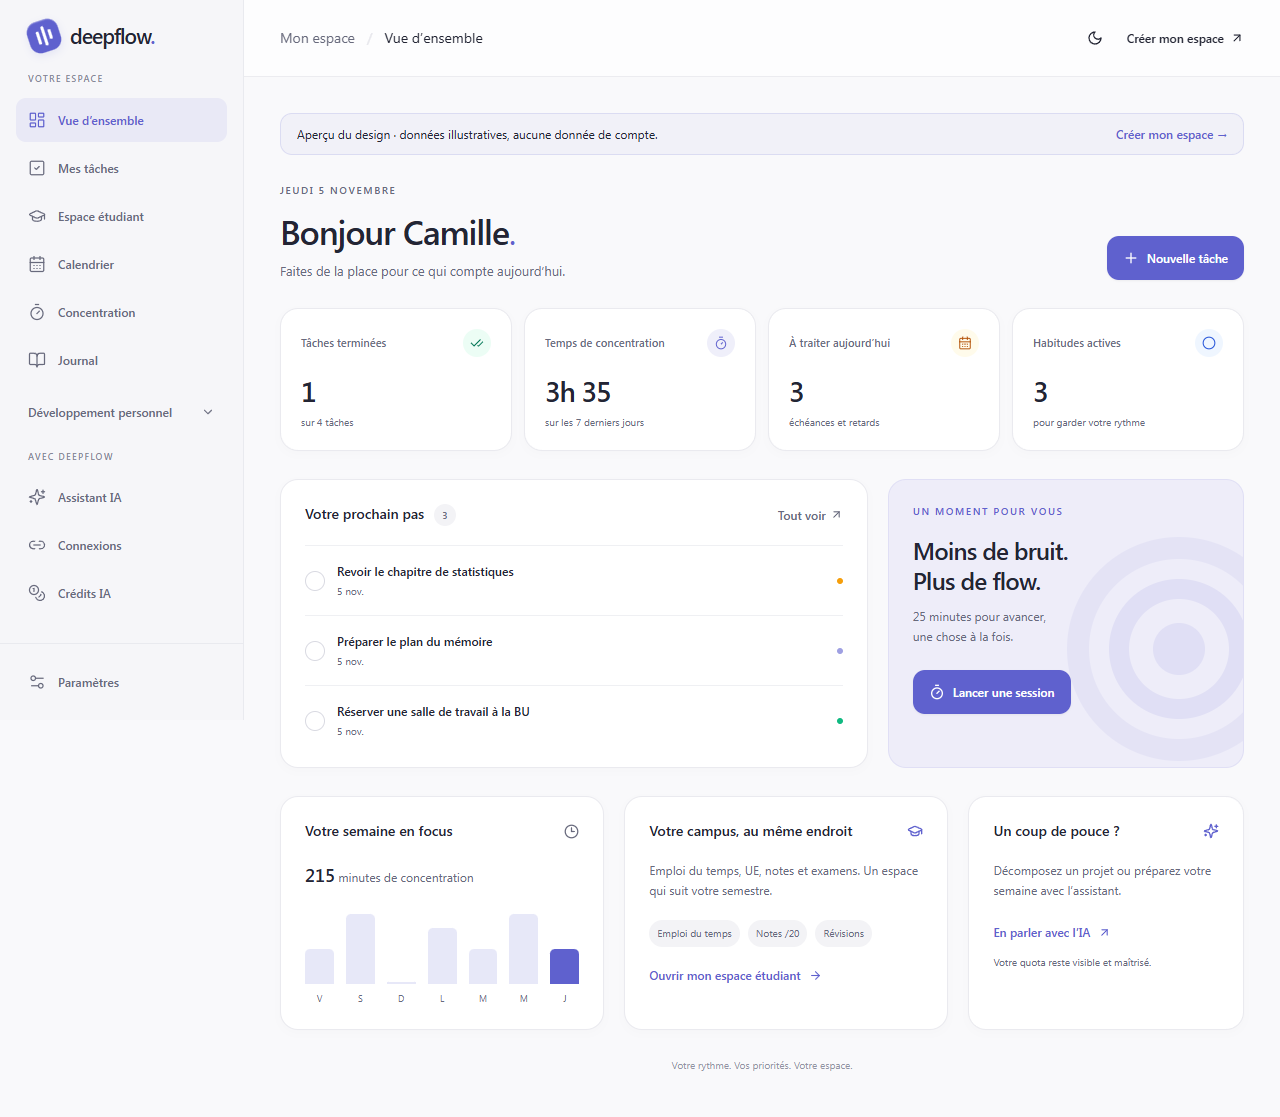
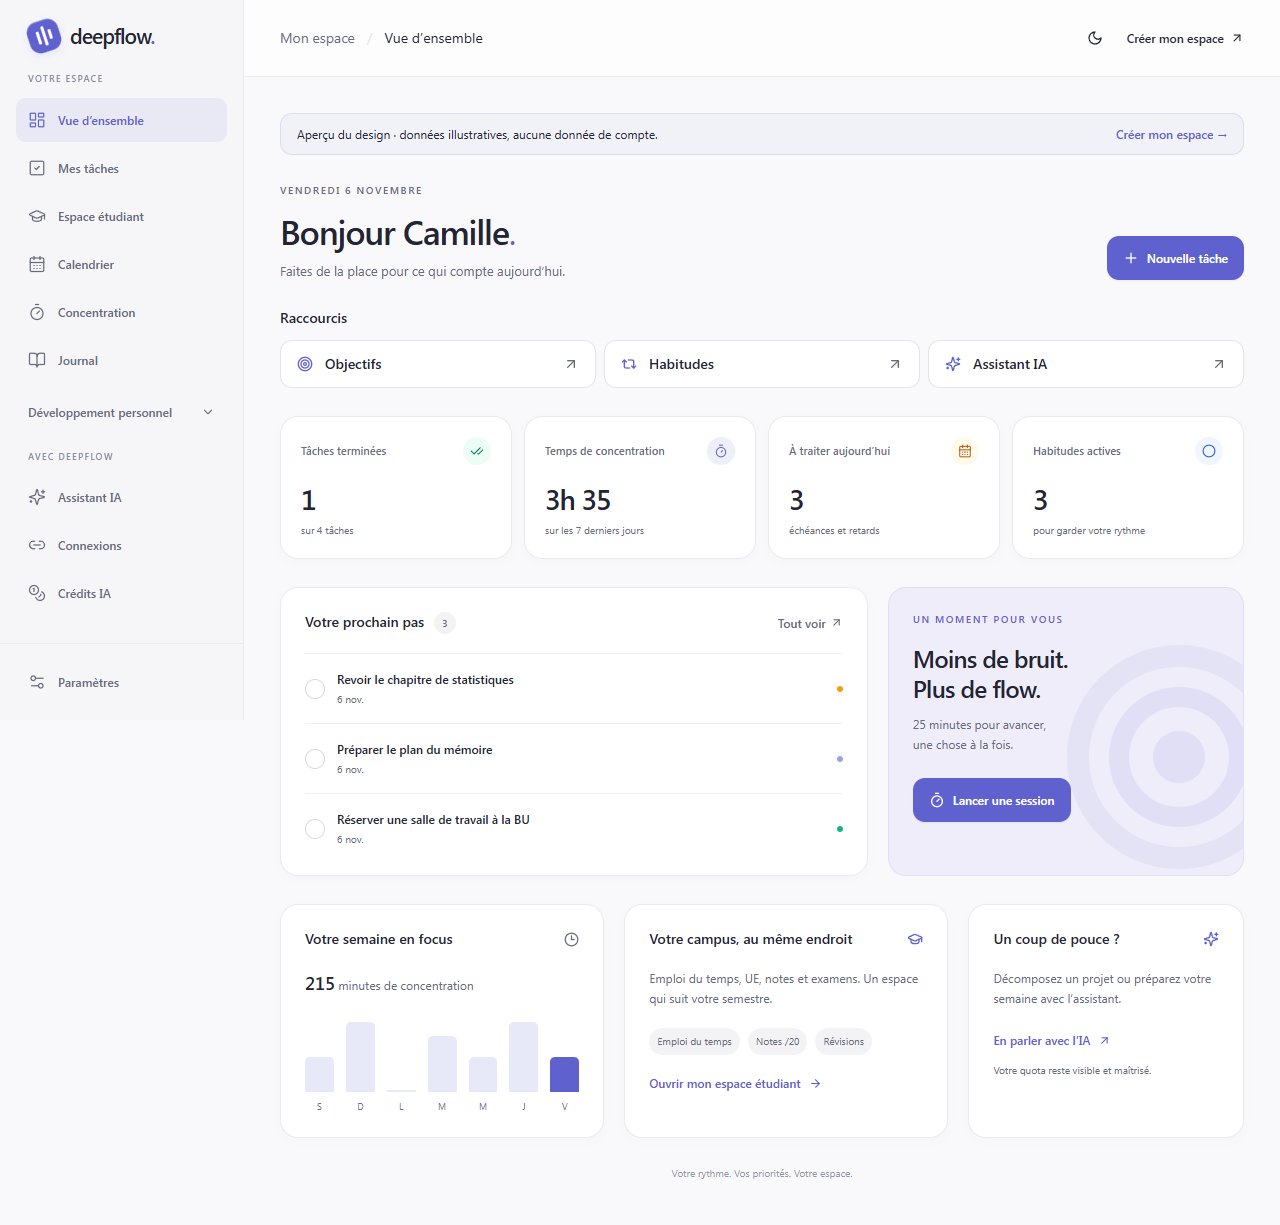
Ajoute les raccourcis et clarifie les integrations

diff --git a/src/pages/Dashboard.tsx b/src/pages/Dashboard.tsx
@@ -10,13 +10,16 @@ import {
   Clock3,
   GraduationCap,
   Plus,
+  Repeat2,
   Sparkles,
+  Target,
   Timer,
 } from "lucide-react";
 import { useAuth } from "@/hooks/useAuth";
 import { supabase } from "@/integrations/supabase/client";
 import { Button } from "@/components/ui/button";
-import { parisDateKey } from "@/lib/task-planning";
+import { parisDateKey, planTasks, taskDateKey } from "@/lib/task-planning";
+import { readAllPages } from "@/lib/pagination";
 
 export interface OverviewTask {
   id: string;
@@ -39,10 +42,50 @@ export const emptyOverview: OverviewData = {
 };
 const dateLabel = (date: Date) =>
   new Intl.DateTimeFormat("fr-FR", {
+    timeZone: "Europe/Paris",
     weekday: "long",
     day: "numeric",
     month: "long",
   }).format(date);
+
+function OverviewShortcuts() {
+  const shortcuts = [
+    { to: "/goals", label: "Objectifs", icon: Target },
+    { to: "/habits", label: "Habitudes", icon: Repeat2 },
+    { to: "/ai-assistant", label: "Assistant IA", icon: Sparkles },
+  ];
+  return (
+    <nav aria-labelledby="overview-shortcuts">
+      <h2 id="overview-shortcuts" className="mb-3 text-sm font-semibold">
+        Raccourcis
+      </h2>
+      <div className="grid grid-cols-1 gap-2 sm:grid-cols-3">
+        {shortcuts.map(({ to, label, icon: Icon }) => (
+          <Button
+            key={to}
+            asChild
+            variant="outline"
+            className="h-12 justify-start gap-3 bg-card px-4"
+          >
+            <Link to={to}>
+              <Icon
+                size={17}
+                className="shrink-0 text-primary"
+                aria-hidden="true"
+              />
+              {label}
+              <ArrowUpRight
+                size={14}
+                className="ml-auto text-muted-foreground"
+                aria-hidden="true"
+              />
+            </Link>
+          </Button>
+        ))}
+      </div>
+    </nav>
+  );
+}
 export function DashboardView({
   data,
   name,
@@ -55,15 +98,17 @@ export function DashboardView({
   onToggle?: (task: OverviewTask) => void;
 }) {
   const today = parisDateKey(new Date());
-  const pending = data.tasks.filter((task) => !task.completed);
+  const pending = planTasks(data.tasks, {
+    status: "pending",
+    search: "",
+    sort: "due",
+  });
   const completed = data.tasks.length - pending.length;
-  const urgent = pending.filter(
-    (task) => task.due_date && task.due_date.slice(0, 10) <= today,
-  );
-  const visible = [
-    ...urgent,
-    ...pending.filter((task) => !urgent.includes(task)),
-  ].slice(0, 4);
+  const urgent = pending.filter((task) => {
+    const due = taskDateKey(task.due_date);
+    return due !== null && due <= today;
+  });
+  const visible = pending.slice(0, 4);
   const days = Array.from({ length: 7 }, (_, index) => {
     const date = new Date();
     date.setDate(date.getDate() - 6 + index);
@@ -95,12 +140,13 @@ export function DashboardView({
           </p>
         </div>
         <Button asChild className="gap-2 rounded-xl text-xs shadow-sm">
-          <Link to={mainLink}>
+          <Link to={preview ? mainLink : "/tasks?new=1"}>
             <Plus size={15} />
             Nouvelle tâche
           </Link>
         </Button>
       </div>
+      <OverviewShortcuts />
       <section
         aria-label="Vos indicateurs"
         className="grid grid-cols-2 gap-3 lg:grid-cols-4"
@@ -362,11 +408,14 @@ export default function Dashboard() {
       since.setDate(since.getDate() - 6);
       since.setHours(0, 0, 0, 0);
       const [tasks, habits, focus] = await Promise.all([
-        supabase
-          .from("tasks")
-          .select("id,title,priority,due_date,completed")
-          .eq("user_id", user!.id)
-          .order("created_at", { ascending: false }),
+        readAllPages((from, to) =>
+          supabase
+            .from("tasks")
+            .select("id,title,priority,due_date,completed")
+            .eq("user_id", user!.id)
+            .order("id")
+            .range(from, to),
+        ),
         supabase
           .from("habits")
           .select("id", { count: "exact", head: true })
@@ -378,7 +427,7 @@ export default function Dashboard() {
           .eq("user_id", user!.id)
           .gte("created_at", since.toISOString()),
       ]);
-      for (const result of [tasks, habits, focus])
+      for (const result of [habits, focus])
         if (result.error) throw new Error(result.error.message);
       const dates = Array.from({ length: 7 }, (_, index) => {
         const date = new Date();
@@ -395,7 +444,7 @@ export default function Dashboard() {
         ),
       );
       return {
-        tasks: tasks.data || [],
+        tasks,
         habitCount: habits.count || 0,
         week,
         focusMinutes: week.reduce((a, b) => a + b, 0),
@@ -413,14 +462,17 @@ export default function Dashboard() {
     );
   if (query.isError)
     return (
-      <div role="alert" className="panel p-8">
-        <h1 className="text-lg font-semibold">
-          Votre espace n’a pas pu être chargé.
-        </h1>
-        <p className="my-3 text-sm text-muted-foreground">
-          Vérifiez votre connexion et la configuration de la base de données.
-        </p>
-        <Button onClick={() => void query.refetch()}>Réessayer</Button>
+      <div className="space-y-6">
+        <OverviewShortcuts />
+        <div role="alert" className="panel p-8">
+          <h1 className="text-lg font-semibold">
+            Votre espace n’a pas pu être chargé.
+          </h1>
+          <p className="my-3 text-sm text-muted-foreground">
+            Vérifiez votre connexion et la configuration de la base de données.
+          </p>
+          <Button onClick={() => void query.refetch()}>Réessayer</Button>
+        </div>
       </div>
     );
   const toggle = async (task: OverviewTask) => {
@@ -428,7 +480,9 @@ export default function Dashboard() {
       .from("tasks")
       .update({ completed: true })
       .eq("id", task.id)
-      .eq("user_id", user!.id);
+      .eq("user_id", user!.id)
+      .select("id")
+      .single();
     if (!result.error) void query.refetch();
     else {
       const { toast } = await import("sonner");

diff --git a/tests/browser/workspace.spec.ts b/tests/browser/workspace.spec.ts
@@ -16,7 +16,7 @@ test.beforeEach(async ({ page }) => {
     console.error(`Browser error: ${error.message}`),
   );
 });
-async function backend(page: Page) {
+async function backend(page: Page, { missingGoogle = false } = {}) {
   const tasks: Record<string, unknown>[] = [];
   let credits = 5;
   await page.route("http://127.0.0.1:54321/**", async (route) => {
@@ -67,7 +67,12 @@ async function backend(page: Page) {
         resets_at: new Date(Date.now() + 86400000).toISOString(),
       });
     if (path.endsWith("/functions/v1/google-api"))
-      return reply({ configured: false, connected: false });
+      return missingGoogle
+        ? reply(
+            { code: "NOT_FOUND", message: "Requested function was not found" },
+            404,
+          )
+        : reply({ configured: false, connected: false });
     if (path.endsWith("/functions/v1/check-subscription"))
       return reply({ subscribed: false, subscription_tier: "free" });
     if (path.endsWith("/functions/v1/ical-proxy"))
@@ -179,12 +184,22 @@ test("public preview, navigation and responsive layout", async ({
 test("authenticated task CRUD, student, Google and credits error states", async ({
   page,
 }) => {
-  await backend(page);
+  await backend(page, { missingGoogle: true });
   await login(page);
-  await page.goto("/tasks");
-  await page
-    .getByRole("button", { name: "Nouvelle tâche", exact: true })
-    .click();
+  const shortcuts = page.getByRole("navigation", {
+    name: "Raccourcis",
+    exact: true,
+  });
+  await expect(
+    shortcuts.getByRole("link", { name: "Objectifs" }),
+  ).toHaveAttribute("href", "/goals");
+  await expect(
+    shortcuts.getByRole("link", { name: "Habitudes" }),
+  ).toHaveAttribute("href", "/habits");
+  await expect(
+    shortcuts.getByRole("link", { name: "Assistant IA" }),
+  ).toHaveAttribute("href", "/ai-assistant");
+  await page.getByRole("link", { name: "Nouvelle tâche", exact: true }).click();
   const dialog = page.getByRole("dialog");
   await dialog.getByLabel("Titre").fill("Préparer le TD de statistiques");
   await dialog.getByRole("button", { name: /Créer/ }).click();
@@ -225,7 +240,12 @@ test("authenticated task CRUD, student, Google and credits error states", async 
     page.getByRole("heading", { name: /calendrier/i }).first(),
   ).toBeVisible();
   await expect(
-    page.getByText(/Google.*connect|connect.*Google/i).first(),
+    page.getByRole("heading", { name: "Connexion Google indisponible" }),
+  ).toBeVisible();
+  await expect(
+    page.getByText(
+      "L’intégration Google n’est pas encore activée sur cette version de Deepflow.",
+    ),
   ).toBeVisible();
   await page.goto("/connections");
   await expect(

diff --git a/src/pages/Calendar.tsx b/src/pages/Calendar.tsx
@@ -267,6 +267,14 @@ export default function CalendarPage() {
             <p role="status" className="text-sm text-muted-foreground">
               Chargement de la connexion…
             </p>
+          ) : status.isError || status.data?.configured === false ? (
+            <div className="rounded-xl border border-dashed p-7">
+              <h3 className="font-medium">Connexion Google indisponible</h3>
+              <p className="mt-2 text-sm leading-6 text-muted-foreground">
+                Vos échéances Deepflow restent disponibles. L’état de
+                l’intégration est indiqué dans Connexions.
+              </p>
+            </div>
           ) : !connected ? (
             <div className="rounded-xl border border-dashed p-7 text-center">
               <CalendarDays className="mx-auto mb-3 h-7 w-7 text-primary" />
@@ -348,7 +356,9 @@ export default function CalendarPage() {
                       <p className="text-xs text-muted-foreground">
                         {eventTiming(event)}
                       </p>
-                      <h3 className="mt-2 break-words font-medium">{event.summary}</h3>
+                      <h3 className="mt-2 break-words font-medium">
+                        {event.summary}
+                      </h3>
                       {event.location && (
                         <p className="mt-1 break-words text-sm text-muted-foreground">
                           {event.location}

diff --git a/src/services/google.ts b/src/services/google.ts
@@ -68,8 +68,18 @@ async function invoke<T>(
   const { data, error } = await supabase.functions.invoke(name, { body });
   if (error) {
     if ("context" in error && error.context instanceof Response) {
+      const status = error.context.status;
       try {
         const details = await error.context.json();
+        if (
+          status === 404 &&
+          ["NOT_FOUND", "FUNCTION_NOT_FOUND"].includes(details.code)
+        ) {
+          throw new GoogleConnectionError(
+            "L’intégration Google n’est pas encore activée sur cette version de Deepflow.",
+            "function_missing",
+          );
+        }
         if (typeof details.error === "string")
           throw new GoogleConnectionError(
             details.error,
@@ -78,9 +88,15 @@ async function invoke<T>(
       } catch (detailsError) {
         if (detailsError instanceof GoogleConnectionError) throw detailsError;
       }
+      if (status === 401) {
+        throw new GoogleConnectionError(
+          "Votre session Deepflow a expiré. Reconnectez-vous, puis réessayez.",
+          "session_expired",
+        );
+      }
     }
     throw new GoogleConnectionError(
-      "Le service Google est inaccessible. Vérifiez votre connexion et la configuration des fonctions serveur.",
+      "Deepflow ne peut pas joindre le service Google. Réessayez ou ouvrez Connexions pour vérifier son état.",
       "request_failed",
     );
   }

diff --git a/src/pages/Tasks.tsx b/src/pages/Tasks.tsx
@@ -259,7 +259,13 @@ export default function Tasks() {
           réessayer.
         </p>
       )}
-      <Dialog open={dialog} onOpenChange={setDialog}>
+      <Dialog
+        open={dialog || params.get("new") === "1"}
+        onOpenChange={(open) => {
+          setDialog(open);
+          if (!open && params.has("new")) setFilter("new", "");
+        }}
+      >
         <DialogContent>
           <DialogHeader>
             <DialogTitle>
@@ -273,6 +279,7 @@ export default function Tasks() {
             task={editing}
             onSuccess={() => {
               setDialog(false);
+              if (params.has("new")) setFilter("new", "");
               void refresh();
             }}
           />

diff --git a/src/services/student-service.ts b/src/services/student-service.ts
@@ -52,7 +52,7 @@ function fail(error: { message: string; code?: string } | null) {
   if (!error) return;
   if (["42P01", "PGRST205", "PGRST202"].includes(error.code || ""))
     throw new Error(
-      "L’espace étudiant n’est pas encore activé sur cette base. Appliquez la migration student_workspace puis rechargez la page.",
+      "L’espace étudiant n’est pas encore disponible. Réessayez dans un instant ou contactez le support Deepflow.",
     );
   throw new Error(error.message);
 }

diff --git a/docs/google-integration.md b/docs/google-integration.md
@@ -4,6 +4,8 @@ Le code de `/connections` et `/calendar` utilise les API Google Calendar et Task
 
 ## Préparer Google Cloud
 
+Sur le projet Deepflow `xzgdfetnjnwrberyddmf`, la vérification du 6 novembre 2026 a confirmé l’absence de `google-api`, de `google-oauth` et du stockage `google_private`. Reconnecter un compte dans l’interface ne peut pas corriger cette situation. Après les réglages ci-dessous, appliquer [la migration Google](../supabase/migrations/20261103202446_google_connections.sql) sur le projet cible et déployer les deux fonctions du dépôt depuis la branche de refonte.
+
 1. Créer ou sélectionner un projet Google Cloud, puis activer **Google Calendar API** et **Google Tasks API** dans la bibliothèque des API.
 2. Configurer l’écran de consentement Google Auth Platform : nom Deepflow, adresse de support, domaine de l’application, politique de confidentialité et audience. En mode de test, ajouter chaque compte de test à la liste autorisée.
 3. Créer un client OAuth de type **Application Web**. Renseigner l’URI de redirection exacte :
@@ -11,6 +13,8 @@ Le code de `/connections` et `/calendar` utilise les API Google Calendar et Task
    ```text
    https://<project-ref>.supabase.co/functions/v1/google-oauth/callback
    ```
+
+   Pour le projet Deepflow, inscrire exactement `https://xzgdfetnjnwrberyddmf.supabase.co/functions/v1/google-oauth/callback` dans les URI de redirection autorisés du client.
 
    Pour Supabase local, l’URI correspondante est `http://127.0.0.1:54321/functions/v1/google-oauth/callback`. Utiliser le même nom d’hôte pendant tout le parcours : le cookie de sécurité est lié à cet hôte.
 
@@ -62,6 +66,15 @@ verify_jwt = false
 [functions.google-api]
 verify_jwt = true
 ```
+
+Depuis la copie de la branche `codex/deepflow-modernization`, avec la CLI Supabase connectée au compte qui gère ce projet, déployer les fonctions avec ces commandes PowerShell :
+
+```powershell
+npm.cmd exec -- supabase functions deploy google-api --project-ref xzgdfetnjnwrberyddmf
+npm.cmd exec -- supabase functions deploy google-oauth --project-ref xzgdfetnjnwrberyddmf --no-verify-jwt
+```
+
+Ouvrir ensuite Deepflow depuis l’origine renseignée dans `APP_URL`, se connecter au compte Deepflow, puis choisir **Connexions → Connecter Google**. En cas de `redirect_uri_mismatch`, comparer le callback exact de l’étape 3 avec celui du client OAuth Google.
 
 `google-oauth` doit recevoir les redirections de Google sans JWT. Son action POST `start` vérifie elle-même la session avec `auth.getUser()`. Ses routes GET n’autorisent aucun accès aux tâches Deepflow. `google-api` vérifie également le JWT utilisateur côté serveur pour toutes les actions. Voir [autorisation des fonctions Supabase](https://supabase.com/docs/guides/functions/auth-headers).
 

diff --git a/docs/mise-en-service.md b/docs/mise-en-service.md
@@ -2,6 +2,11 @@
 
 Base de code : `lsapk/gemini-flow-pwa@147390a`. Projet constaté en lecture seule : `xzgdfetnjnwrberyddmf`, compte Leny.grivel. Aucune migration, modification Auth ou fonction corrigée n’a été appliquée à ce projet pendant la préparation locale.
 
+Le 6 novembre 2026, la migration étudiante seule a été appliquée au projet hébergé sous le nom `student_workspace`. Les cinq tables, leur RLS et les droits des deux fonctions étudiant ont été vérifiés. Ne pas rejouer cette migration sur ce projet. Les autres étapes de déploiement restent à faire.
+
+- **Import étudiant par URL**. Le projet héberge encore l’ancien `ical-proxy`. Utiliser les fichiers `.ics` en attendant le déploiement du proxy authentifié et la configuration de `ICS_ALLOWED_HOSTS` avec les serveurs universitaires approuvés.
+- **Crédits IA et abonnements**. Le registre `ai_credit_usage` de la refonte est encore absent du projet hébergé. Valider et appliquer le durcissement de la base, puis déployer les fonctions IA et de paiement compatibles avant de tester le quota et l’abonnement.
+
 ## Ordre de déploiement
 
 1. Sauvegarder la base existante et créer un environnement de préproduction reflétant son schéma. Vérifier la provenance des rôles administrateur et les correspondances clients/abonnements Stripe existantes.
